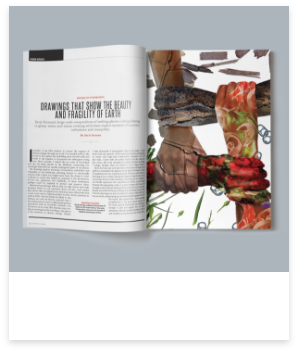
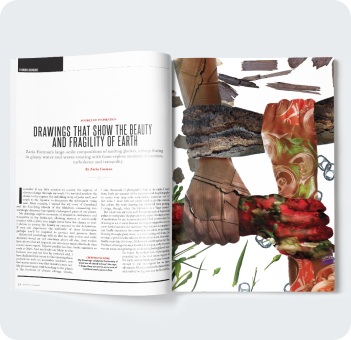
changed and edited photos on works, fixed navs and changed contact styles

diff --git a/work.html b/work.html
@@ -1,6 +1,8 @@
 <head>
     <meta charset="utf-8">
     <meta http-equiv="X-UA-Compatible" content="IE=edge">
+    <meta name="viewport" content="width=device-width, initial-scale=1" />
+
     <title>Andrea Valaitis Designs</title>
 
     <link href="https://cdn.jsdelivr.net/npm/bootstrap@5.0.2/dist/css/bootstrap.min.css" rel="stylesheet"
@@ -14,90 +16,75 @@
 
 <body>
     <div class="container">
-        <div class="row col-12">
-            <div class="col-12">
-                <header>
-                    <nav class="col-3">
-                        <img src="images/hamburgermenu.png" alt="hamburger menu">
-                        <ul>
-                            <li>
-                                <p>Search</p>
-                            </li>
-                            <a href="about.html">
-                                <li>
-                                    <p>About</p>
-                                </li>
-                            </a>
-                            <a href="work.html">
-                                <li>
-                                    <p>Work</p>
-                                </li>
-                            </a>
-                            <a href="contact.html">
-                                <li>
-                                    <p>Contact</p>
-                                </li>
-                            </a>
-                        </ul>
-
-                    </nav>
-
-                    <div class="col-3">
-                        <a href="index.html">
-                            <img src="images/avlogo.png" alt="a and v connected for logo home button">
-                        </a>
-                    </div>
-                    <div class="col-3">
-                        <img src="images/magnifyingglass.png" alt="magnifying glass icon">
-                    </div>
+        <nav class="navbar navbar-expand-lg navbar-light">
+            <a class="navbar-brand" href="index.html"><img src="images/avlogo.svg" width="30" height="30" class="d-inline-block align-top" alt=" a and v in brown as logo" ></a>
+            <button class="navbar-toggler" type="button" data-toggle="collapse" data-target="#navbarNav" aria-controls="navbarNav" aria-expanded="false" aria-label="Toggle navigation">
+              <span class="navbar-toggler-icon"></span>
+            </button>
+                <div class="collapse navbar-collapse" id="navbarNav">
+                  <ul class="navbar-nav">
+                    <li class="nav-item active">
+                      <a class="nav-link" href="index.html">Home</a>
+                    </li>
+                    <li class="nav-item">
+                      <a class="nav-link" href="work.html">Work</a>
+                    </li>
+                    <li class="nav-item">
+                      <a class="nav-link" href="about.html">About</a>
+                    </li>
+                    <li class="nav-item">
+                      <a class="nav-link" href="contact.html">Contact</a>
+                    </li>
+                  </ul>
+                </div>
+              </nav>
 
                 </header>
             </div>
             <section class="work">
             <div class="row col-12">
                 <div class="row justify-content-center">
-                <div class="col-4">
+                <div class="col-4 my-5">
                     <h1>Work</h1>
                 </div>
                 </div>
-                <div class="row w-100 justify-content-center">
-                    <a class="col-md-3 col-lg-4" href="artspring.html"><img src="images/digital1.png" alt="">
+                <div class="row justify-content-center">
+                    <a class="col-4 col-lg-3" href="artspring.html"><img src="images/digital1.png" alt="">
                         <p>Art Spring | 2023</p>
                     </a>
-                    <a class="col-md-3 col-lg-4" href="scatteredthoughts.html"><img src="images/digital2.png" alt="">
+                    <a class="col-4 col-lg-3" href="scatteredthoughts.html"><img src="images/digital2.png" alt="">
                         <p>Scattered Thoughts | 2023</p>
                     </a>
-                    <a class="col-md-3 col-lg-4" href="guardiansdesign.html"><img src="images/digital3.png" alt="">
+                    <a class="col-4 col-lg-3" href="guardiansdesign.html"><img src="images/digital3.png" alt="">
                         <p>Guardians Redesign | 2023</p>
                     </a>
                 </div>
             </div>
 
-            <div class="row col-12">
             
-                <div class="row w-100 justify-content-center">
-                    <a class="col-md-3 col-lg-4" href=""><img src="images/print1.png" alt="">
+                <div class="row  justify-content-center">
+                    <a class="col-4 col-lg-3" href=""><img src="images/print1.png" alt="">
                         <p>Ad Campaign | 2022</p>
                     </a>
-                    <a class="col-md-3 col-lg-4" href=""><img src="images/print2.png" alt="">
+                    <a class="col-4 col-lg-3" href=""><img src="images/print2.png" alt="">
                         <p>Book Collection | 2022</p>
                     </a>
-                    <a class="col-md-3 col-lg-4" href=""><img src="images/print3.png" alt="">
+                    <a class="col-4 col-lg-3" href="tedtalk.html"><img src="images/print3.png" alt="">
                         <p>Ted Talk | 2022</p>
                     </a>
                 </div>
             </div>
 
-            <div class="row col-12">
+            <div class="row">
              
                 <div class="row justify-content-center">
-                    <a class="col-md-3 col-lg-4" href="textdesign.html"><img src="images/print4.png" alt="">
+                    <a class="col-4 col-lg-3" href="textdesign.html"><img src="images/print4.png" alt="">
                         <p>TypeFace Design | 2022</p>
                     </a>
-                    <a class="col-md-3 col-lg-4" href=""><img src="images/print5.png" alt="">
+                    <a class="col-4 col-lg-3" href=""><img src="images/print5.png" alt="">
                         <p>Mark Collection | 2022</p>
                     </a>
-                    <a class="col-md-3 col-lg-4" href="textoverlay.html"><img src="images/print6.png" alt="">
+                    <a class="col-4 col-lg-3" href="textoverlay.html"><img src="images/print6.png" alt="">
                         <p>Text Overlay | 2021</p>
                     </a>
                 </div>

diff --git a/contact.html b/contact.html
@@ -19,48 +19,37 @@
     <div class="container">
         <div class="row col-12">
             <header>
-                <nav class="col-3">
-                    <img src="images/hamburgermenu.png" alt="hamburger menu">
-                        <ul>
-                            <li>
-                                <p>Search</p>
+                <nav class="navbar navbar-expand-lg navbar-light">
+                    <a class="navbar-brand" href="index.html"><img src="images/avlogo.svg" width="30" height="30" class="d-inline-block align-top" alt=" a and v in brown as logo" ></a>
+                    <button class="navbar-toggler" type="button" data-toggle="collapse" data-target="#navbarNav" aria-controls="navbarNav" aria-expanded="false" aria-label="Toggle navigation">
+                      <span class="navbar-toggler-icon"></span>
+                    </button>
+                        <div class="collapse navbar-collapse" id="navbarNav">
+                          <ul class="navbar-nav">
+                            <li class="nav-item active">
+                              <a class="nav-link" href="index.html">Home</a>
                             </li>
-                            <a href="about.html">
-                                <li>
-                                    <p>About</p>
-                                </li>
-                            </a>
-                            <a href="work.html">
-                                <li>
-                                    <p>Work</p>
-                                </li>
-                            </a>
-                            <a href="contact.html">
-                                <li>
-                                    <p>Contact</p>
-                                </li>
-                            </a>
-                        </ul>
-
-                </nav>
+                            <li class="nav-item">
+                              <a class="nav-link" href="work.html">Work</a>
+                            </li>
+                            <li class="nav-item">
+                              <a class="nav-link" href="about.html">About</a>
+                            </li>
+                            <li class="nav-item">
+                              <a class="nav-link" href="contact.html">Contact</a>
+                            </li>
+                          </ul>
+                        </div>
+                      </nav>
 
 
-                <a href="index.html">
-                    <img src="images/avlogo.png" alt="a and v connected for logo home button">
-                </a>
-
-                <img src="images/magnifyingglass.png" alt="magnifying glass icon">
+               
 
             </header>
             
-            <div class="row contact justify-content-center">
-                <div class="row justify-content-center">
-                    <div class="col-12">
-                        <img class=" arch w-100" src="images/contact arch.png" alt="white arch">
-                    </div>
-                </div>
+
                 <div class="contactform col-md-6">
-                    <div class="row">
+                    <div class="row justify-content-center">
                     <h1 class="col-12 ">Contact</h1>
                     </div>
                         <div class="row justify-content-center">

diff --git a/textdesign.html b/textdesign.html
@@ -17,30 +17,28 @@
         <div class="row col-12">
             <div class="col-12">
                 <header>
-                    <nav class="col-3">
-                        <img src="images/hamburgermenu.png" alt="hamburger menu">
-                        <ul>
-                            <li>
-                                <p>Search</p>
-                            </li>
-                            <a href="about.html">
-                                <li>
-                                    <p>About</p>
+                    <nav class="navbar navbar-expand-lg navbar-light">
+                        <a class="navbar-brand" href="index.html"><img src="images/avlogo.svg" width="30" height="30" class="d-inline-block align-top" alt=" a and v in brown as logo" ></a>
+                        <button class="navbar-toggler" type="button" data-toggle="collapse" data-target="#navbarNav" aria-controls="navbarNav" aria-expanded="false" aria-label="Toggle navigation">
+                          <span class="navbar-toggler-icon"></span>
+                        </button>
+                            <div class="collapse navbar-collapse" id="navbarNav">
+                              <ul class="navbar-nav">
+                                <li class="nav-item active">
+                                  <a class="nav-link" href="index.html">Home</a>
                                 </li>
-                            </a>
-                            <a href="work.html">
-                                <li>
-                                    <p>Work</p>
+                                <li class="nav-item">
+                                  <a class="nav-link" href="work.html">Work</a>
                                 </li>
-                            </a>
-                            <a href="contact.html">
-                                <li>
-                                    <p>Contact</p>
+                                <li class="nav-item">
+                                  <a class="nav-link" href="about.html">About</a>
                                 </li>
-                            </a>
-                        </ul>
-
-                    </nav>
+                                <li class="nav-item">
+                                  <a class="nav-link" href="contact.html">Contact</a>
+                                </li>
+                              </ul>
+                            </div>
+                          </nav>
 
                     <div class="col-3">
                         <a href="index.html">

diff --git a/tedtalk.html b/tedtalk.html
@@ -1,6 +1,8 @@
 <head>
     <meta charset="utf-8">
     <meta http-equiv="X-UA-Compatible" content="IE=edge">
+    <meta name="viewport" content="width=device-width, initial-scale=1" />
+
     <title>Andrea Valaitis Designs</title>
 
     <link href="https://cdn.jsdelivr.net/npm/bootstrap@5.0.2/dist/css/bootstrap.min.css" rel="stylesheet"
@@ -51,25 +53,20 @@
 
                 </header>
             </div>
-            <section class="textoverlay">
-            <div class="row col-12 justify-content-center textdesign">
 
-                <h1 class="col-12 w-100">Text Overlay</h1>
-                <div class="row col-12 justify-content-center">
-                <p class="col-10 justify-content-md-center">For this project, we worked on using columns and grids in InDesign to layer text over one another to create depth and hierarchy between typefaces.</p>
+            <div class="row col-12 justify-content-md-center textdesign">
+
+                <h1 class="col-12">Ted Talk</h1>
+                <div class="row col-12 justify-content-md-center">
+                <p class="col-10 justify-content-md-center">The Ted Talk assignment tested metaphors and continuity in graphics. This project was based on a Ted Talk that we could pick and from there we created a piece of work that was a metaphor for the Ted Talk’s purpose. From there we created a magazine layout to showcase the work.</p>
             </div>
             </div>
     
             <div class="row">
-                <img  class="col-lg-6 col-12" src="images/textoverlay1.png" alt="column text reading may day and wvu">
-                <img  class="col-lg-6 col-12" src="images/textoverlay2.png" alt="column text reading may day and wvu">
+                <img  class="col-12 w-100" src="images/tedtalk.png" alt="magazine with 4 peoples arms connecting, one with roses, one with cans, one with plants and one with wood">
             </div>
 
-            <div class="row col-12">
-                <img  class="col-lg-6 col-12" src="images/textoverlay3.png" alt="column text reading may day and wvu">
-                <img  class="col-lg-6 col-12" src="images/textoverlay4.png" alt="column text reading may day and wvu">
-            </div>
-        </section>
+            
 
             <footer>
 

diff --git a/css/styles.css b/css/styles.css
@@ -10,11 +10,16 @@ form{
 
 .contact{
 
-    position: relative;
 }
 
 .contactform{
     position: absolute;
+    font-family: 'Montserrat', sans-serif;
+    font-weight: 700;
+    font-style: normal;
+    text-align: center;
+    font-size: 2em;
+    margin-top: 50px;
  
 }
 
@@ -24,6 +29,22 @@ form{
     font-size: 1em;
 
 }
+
+.contactform input[type="text"], .formsection input.email2[type="email"], .formsection textarea{
+    padding: 5px;
+    border-radius: 50px;
+    text-align: left;
+    border: none;
+    width: 100%;
+    font-family: 'Barlow', sans-serif;
+    font-weight: 400;
+        font-style: normal;
+    font-size: 19px;
+    color: #714232;
+
+
+}
+
 
 .arch{
     z-index: -1;
@@ -56,7 +77,7 @@ form{
 }
 
 .work img{
-    
+    width: 100%;
 }
 
 
